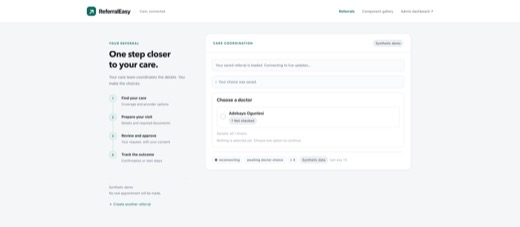
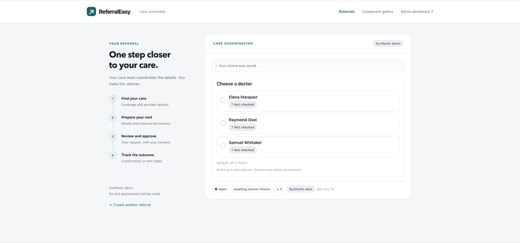
docs: add step-by-step referral screenshot walkthrough

diff --git a/README.md b/README.md
@@ -45,6 +45,26 @@ Live browser captures from the local synthetic demo. Click a thumbnail to open t
   </tr>
 </table>
 
+### Select a doctor, step by step
+
+Follow one synthetic referral from setup to consent. Click any thumbnail to see the full screen.
+The final image shows the request ready to send after explicit consent.
+
+<table>
+  <tr>
+    <td align="center"><strong>1. Create a referral</strong><br /><a href="docs/media/referral-create.jpg"><img src="docs/media/referral-create-thumb.jpg" width="260" alt="Choose a sample patient and click Create referral." /></a><br /><sub>Choose a sample patient and click Create referral.</sub></td>
+    <td align="center"><strong>2. Choose a hospital</strong><br /><a href="docs/media/referral-step-02-hospital.jpg"><img src="docs/media/referral-step-02-hospital-thumb.jpg" width="260" alt="Select Lakeview Regional Medical Center to see its doctors." /></a><br /><sub>Select Lakeview Regional Medical Center to see its doctors.</sub></td>
+  </tr>
+  <tr>
+    <td align="center"><strong>3. Choose your doctor</strong><br /><a href="docs/media/referral-step-03-doctor.jpg"><img src="docs/media/referral-step-03-doctor-thumb.jpg" width="260" alt="Select Elena Marquez from the available doctors." /></a><br /><sub>Select Elena Marquez from the available doctors.</sub></td>
+    <td align="center"><strong>4. Choose an appointment</strong><br /><a href="docs/media/referral-step-04-time.jpg"><img src="docs/media/referral-step-04-time-thumb.jpg" width="260" alt="Pick an available time for the selected doctor." /></a><br /><sub>Pick an available time for the selected doctor.</sub></td>
+  </tr>
+  <tr>
+    <td align="center"><strong>5. Review the request</strong><br /><a href="docs/media/referral-step-05-review.jpg"><img src="docs/media/referral-step-05-review-thumb.jpg" width="260" alt="Check the exact referral request before giving consent." /></a><br /><sub>Check the exact referral request before giving consent.</sub></td>
+    <td align="center"><strong>6. Give explicit consent</strong><br /><a href="docs/media/referral-step-06-consent.jpg"><img src="docs/media/referral-step-06-consent-thumb.jpg" width="260" alt="Tick the agreement to enable Send referral request." /></a><br /><sub>Tick the agreement to enable Send referral request.</sub></td>
+  </tr>
+</table>
+
 ## What this project demonstrates
 
 | Engineering area          | Design demonstrated here                                                                                                                                      |

diff --git a/docs/media/README.md b/docs/media/README.md
@@ -51,3 +51,20 @@ Captured October 19, 2026. All displayed records and traffic are synthetic. Thes
 captures of the implemented UI, not design mockups. Counts reflect the local stack at capture time.
 Each `*-thumb.jpg` is resized to 520 pixels wide and displayed at 260 pixels in the README;
 clicking it opens its full-size counterpart.
+
+
+### Step-by-step referral walkthrough
+
+The README walkthrough follows one fresh synthetic workflow in the running patient app:
+
+1. `referral-create.jpg` — choose a sample patient and start a referral (the existing creation capture).
+2. `referral-step-02-hospital.jpg` — choose Lakeview Regional Medical Center.
+3. `referral-step-03-doctor.jpg` — choose Elena Marquez from the hospital’s doctors.
+4. `referral-step-04-time.jpg` — select an available appointment.
+5. `referral-step-05-review.jpg` — review the exact request with the send button awaiting consent.
+6. `referral-step-06-consent.jpg` — explicit agreement enables the send button, before submission.
+
+The five new captures were taken October 19, 2026. Each has a 520-pixel-wide `-thumb.jpg`
+companion, displayed at 260 pixels and linked to the full-size image. The overview’s
+`referral-journey.jpg` also uses the clearer doctor-selection capture. The walkthrough records
+actual app states; it ends before sending the request or receiving an appointment outcome.
